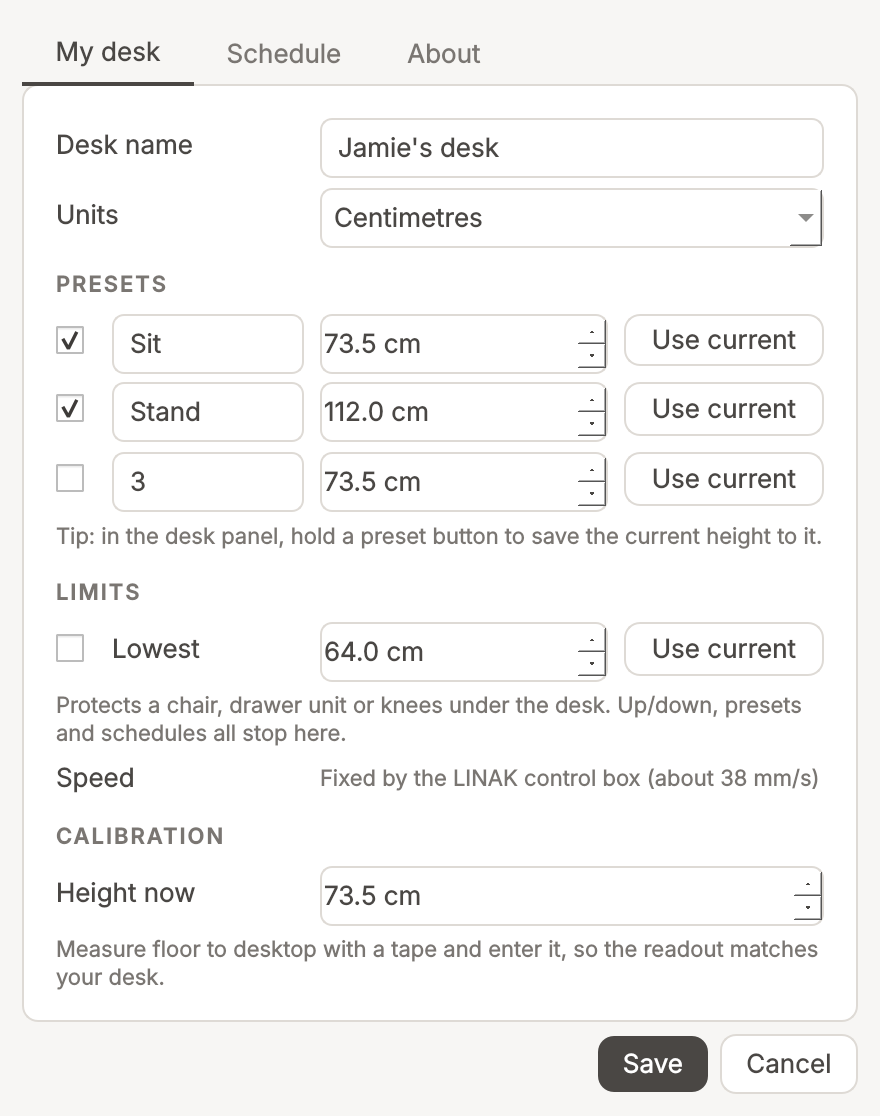
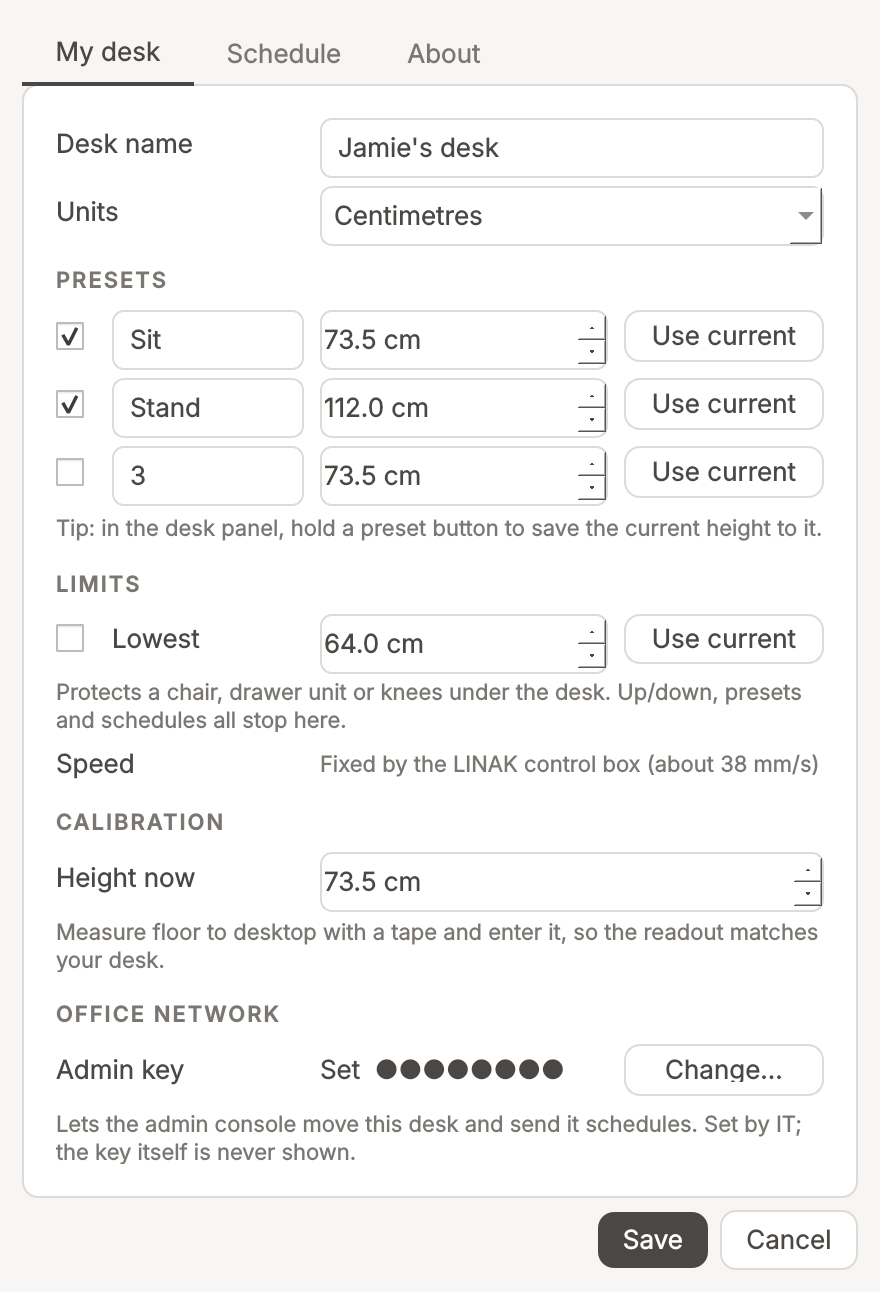
Desk settings: set the office admin key without the command line
Adds an Office network section to the desk's settings: shows only whether
a key is set, with Set.../Change... opening a masked dialog (key twice, at
least 8 characters). Changing a key IT already set needs the current key.
The --admin-key option stays for scripted installs and now checks length.

Claude-Session: https://claude.ai/code/session_01LB2kFNaKWxQTFHnuSo8F6P

diff --git a/hat_desk/ui/settings_dialog.py b/hat_desk/ui/settings_dialog.py
@@ -10,7 +10,7 @@ from PySide6.QtWidgets import (QCheckBox, QComboBox, QDialog, QDialogButtonBox, 
                                QHeaderView, QAbstractItemView)
 
 from . import theme
-from ..settings import DAY_NAMES
+from ..settings import DAY_NAMES, MIN_KEY_LENGTH, change_admin_key
 
 
 def _days_text(days):
@@ -155,6 +155,18 @@ class SettingsDialog(QDialog):
         r += 1
         hint("Measure floor to desktop with a tape and enter it, so the readout matches your desk.")
 
+        section("OFFICE NETWORK")
+        self.key_status = QLabel()
+        self.key_btn = QPushButton()
+        self.key_btn.clicked.connect(self._edit_key)
+        g.addWidget(QLabel("Admin key"), r, 0, 1, 2)
+        g.addWidget(self.key_status, r, 2)
+        g.addWidget(self.key_btn, r, 3)
+        r += 1
+        hint("Lets the admin console move this desk and send it schedules. "
+             "Set by IT; the key itself is never shown.")
+        self._show_key_status()
+
         if sys.platform == "win32":
             self.autostart = QCheckBox("Start with Windows")
             self.autostart.setChecked(s.start_with_windows)
@@ -164,6 +176,18 @@ class SettingsDialog(QDialog):
             self.autostart = None
         g.setRowStretch(r, 1)
         return w
+
+    def _show_key_status(self):
+        is_set = self.store.settings.admin_key_set
+        self.key_status.setText("Set  ●●●●●●●●" if is_set else "Not set")
+        self.key_status.setObjectName("" if is_set else "Hint")
+        self.key_status.style().unpolish(self.key_status)
+        self.key_status.style().polish(self.key_status)
+        self.key_btn.setText("Change..." if is_set else "Set...")
+
+    def _edit_key(self):
+        if AdminKeyDialog(self.store, self).exec():
+            self._show_key_status()
 
     def _schedule_tab(self, s):
         w = QWidget()
@@ -244,4 +268,55 @@ class SettingsDialog(QDialog):
         if self.autostart is not None:
             from ..autostart import set_autostart
             set_autostart(self.store.settings.start_with_windows)
+        self.accept()
+
+
+class AdminKeyDialog(QDialog):
+    """Set or change the office admin key. Changing a key IT already set needs the current one."""
+
+    def __init__(self, store, parent=None):
+        super().__init__(parent)
+        self.store = store
+        changing = store.settings.admin_key_set
+        self.setWindowTitle("Change admin key" if changing else "Set admin key")
+        g = QGridLayout(self)
+        g.setContentsMargins(18, 18, 18, 18)
+        g.setVerticalSpacing(8)
+        g.setColumnStretch(1, 1)
+        r = 0
+
+        def field(label):
+            nonlocal r
+            e = QLineEdit(echoMode=QLineEdit.Password)
+            e.setMinimumWidth(220)
+            g.addWidget(QLabel(label), r, 0)
+            g.addWidget(e, r, 1)
+            r += 1
+            return e
+
+        self.current = field("Current key") if changing else None
+        self.new = field("New key")
+        self.confirm = field("New key again")
+        g.addWidget(QLabel(f"Use the same office key as the admin console, at least {MIN_KEY_LENGTH} "
+                           "characters.", objectName="Hint", wordWrap=True), r, 0, 1, 2)
+        r += 1
+        self.error = QLabel(objectName="Error", wordWrap=True)
+        self.error.setStyleSheet(f"color: {theme.WARN};")
+        self.error.hide()
+        g.addWidget(self.error, r, 0, 1, 2)
+        r += 1
+        bb = QDialogButtonBox(QDialogButtonBox.Save | QDialogButtonBox.Cancel)
+        bb.button(QDialogButtonBox.Save).setObjectName("Primary")
+        bb.accepted.connect(self._save)
+        bb.rejected.connect(self.reject)
+        g.addWidget(bb, r, 0, 1, 2)
+        (self.current or self.new).setFocus()
+
+    def _save(self):
+        err = change_admin_key(self.store, self.new.text(), self.confirm.text(),
+                               self.current.text() if self.current else "")
+        if err:
+            self.error.setText(err)
+            self.error.show()
+            return
         self.accept()

diff --git a/hat_desk/settings.py b/hat_desk/settings.py
@@ -6,6 +6,7 @@ when the leg is fully down, so desk height = offset + leg position.
 """
 from __future__ import annotations
 
+import hmac
 import json
 import os
 import platform
@@ -85,6 +86,7 @@ class Settings:
     agent_enabled: bool = True
     agent_port: int = 47820
     admin_key: str = ""                  # shared secret; admin console must send it
+    admin_key_set: bool = False          # True once IT has set the office key (False = random, unused)
     start_with_windows: bool = True
 
     # ---- derived ----------------------------------------------------------
@@ -132,6 +134,44 @@ class Settings:
         if "schedules" in d:
             d["schedules"] = [ScheduleRule(**r) for r in d["schedules"]]
         return cls(**d)
+
+
+MIN_KEY_LENGTH = 8
+
+
+def change_admin_key(store: "SettingsStore", new_key: str, confirm: str, current: str = "") -> str:
+    """Set the office admin key. Returns "" on success, or a reason it was refused.
+
+    Once IT has set a key, changing it needs the current one, so a desk's user can't lock
+    the admin console out of their desk (and out of its cleaning schedule)."""
+    s = store.settings
+    new_key = new_key.strip()
+    if s.admin_key_set and not hmac.compare_digest(current.strip().encode(), s.admin_key.encode()):
+        return "The current key is wrong."
+    if len(new_key) < MIN_KEY_LENGTH:
+        return f"Use at least {MIN_KEY_LENGTH} characters."
+    if new_key != confirm.strip():
+        return "The two keys don't match."
+
+    def upd(st):
+        st.admin_key = new_key
+        st.admin_key_set = True
+    store.update(upd)
+    return ""
+
+
+def set_admin_key(store: "SettingsStore", key: str) -> str:
+    """Set the office key at install time (`python -m hat_desk --admin-key`), no current key
+    needed. Returns "" on success, or a reason it was refused."""
+    key = key.strip()
+    if len(key) < MIN_KEY_LENGTH:
+        return f"The admin key needs at least {MIN_KEY_LENGTH} characters."
+
+    def upd(st):
+        st.admin_key = key
+        st.admin_key_set = True
+    store.update(upd)
+    return ""
 
 
 class SettingsStore:

diff --git a/tests_desk/test_desk.py b/tests_desk/test_desk.py
@@ -239,3 +239,27 @@ def test_parse_schedules_rejects_bad_input():
         parse_schedules("nope")
     r = parse_schedules([{"id": "x", "time": "7:5", "action": "preset:2"}])
     assert r[0].time == "07:05"
+
+
+# ---- admin key from settings ----------------------------------------------------------
+def test_change_admin_key(store):
+    from hat_desk.settings import change_admin_key
+    assert not store.settings.admin_key_set
+    assert change_admin_key(store, "short", "short") == "Use at least 8 characters."
+    assert change_admin_key(store, "office-key-1", "office-key-2") == "The two keys don't match."
+    assert change_admin_key(store, "office-key-1", "office-key-1") == ""
+    assert store.settings.admin_key == "office-key-1" and store.settings.admin_key_set
+    # once set, changing it needs the current key
+    assert change_admin_key(store, "office-key-2", "office-key-2") == "The current key is wrong."
+    assert change_admin_key(store, "office-key-2", "office-key-2", current="guess") == "The current key is wrong."
+    assert change_admin_key(store, "office-key-2", "office-key-2", current="office-key-1") == ""
+    assert SettingsStore(store.path).settings.admin_key == "office-key-2"
+
+
+def test_admin_key_at_install(store):
+    from hat_desk.settings import set_admin_key
+    assert set_admin_key(store, "short") == "The admin key needs at least 8 characters."
+    assert not store.settings.admin_key_set
+    assert set_admin_key(store, "  office-key-9 ") == ""
+    s = SettingsStore(store.path).settings
+    assert s.admin_key == "office-key-9" and s.admin_key_set

diff --git a/hat_desk/app.py b/hat_desk/app.py
@@ -19,7 +19,7 @@ from PySide6.QtWidgets import QApplication, QMenu, QSystemTrayIcon
 
 from .controller import DeskController
 from .scheduler import Scheduler
-from .settings import SettingsStore, app_dir
+from .settings import SettingsStore, app_dir, set_admin_key
 from .ui import theme
 from .ui.panel import DeskPanel
 from .ui.settings_dialog import SettingsDialog
@@ -157,7 +157,10 @@ def main(argv=None):
 
     if a.admin_key:
         store = SettingsStore()
-        store.update(lambda s: setattr(s, "admin_key", a.admin_key))
+        err = set_admin_key(store, a.admin_key)
+        if err:
+            print(err)
+            return 1
         print("Admin key saved for", store.settings.desk_name)
         return 0
 

diff --git a/docs/desk-app.md b/docs/desk-app.md
@@ -41,7 +41,8 @@ drives the LINAK DL6 leg through the CBD6S control box and the USB2LIN06 cable.
 | Speed | fixed by the CBD6S (about 38 mm/s), not settable over USB2LIN06 | |
 
 The admin key is what separates the two: each desk accepts network commands only with the
-office admin key, which is set once at install and never shown in the desk app.
+office admin key. IT sets it once per desk (in settings or on the command line), and the desk
+app never shows it.
 
 ## Using it
 
@@ -50,10 +51,20 @@ office admin key, which is set once at install and never shown in the desk app.
 1. Install Python 3.10+ (python.org, tick "Add to PATH").
 2. Copy this repo to the PC, plug the USB2LIN06 cable into the CBD6S, close LINAK's Desk Control
    app (only one program can use the cable).
-3. Set the office admin key once:  `python -m hat_desk --admin-key YOUR-OFFICE-KEY`
-4. Double-click `HAT_DESK.bat`. The HAT mark appears in the tray. Click it for the panel.
+3. Double-click `HAT_DESK.bat`. The HAT mark appears in the tray. Click it for the panel.
    Windows Firewall asks once about network access; allow **private networks** so the admin
    console can reach the desk.
+4. Set the office admin key once: click the HAT mark, then **⚙ → My desk → Office network →
+   Admin key → Set...**, and type the key twice. It's saved right away.
+   Or from a Command Prompt in the app folder, for scripted installs:
+   `python -m hat_desk --admin-key YOUR-OFFICE-KEY`
+
+The key is never shown in the app, only whether one is set. Once it is set, changing it in
+settings asks for the current key, so a desk's user can't casually cut the desk off from the
+admin console and its cleaning schedule. This is a guard, not a lock: the settings file lives
+in the user's own `%APPDATA%`, and the command line can still overwrite the key.
+
+<img src="img/admin_key.png" width="340">
 
 In the panel: hold ▲ / ▼ to move. Click a preset to go there; **hold a preset for a second
 to save the current height** to it (or right-click for Save / Rename). ⚙ opens settings:
